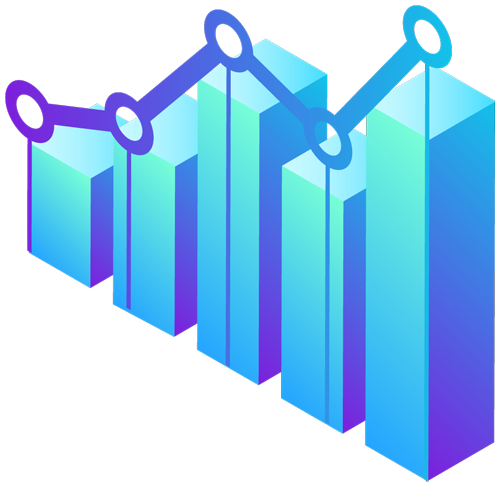
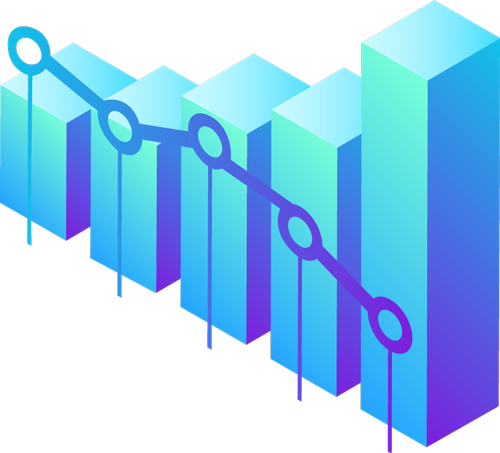
add in new demand picture

diff --git a/src/index.html b/src/index.html
@@ -107,35 +107,35 @@
         <div class="problem-dataset">
           <div class="problem-dataset-first">
             <div class="problem-dataset-element">
-              <h3>High Cost of Student Loans</h3>
-              <p>With Americans owing a crippling <span class="primary-bold">$1.5 trillion</span> in student loans as
-                of 2018, graduates are feeling more
+              <h3>High Cost of Education</h3>
+              <p>With Americans owing a crippling <span class="primary-bold">$1.5 trillion in student loans</span>,
+                graduates are feeling more
                 pressure than ever. On average, a new graduate owes $31,000. 42% of
-                people who’ve gone to college took out debt, while 20% of the borrowers are continuing to behind on
+                people who’ve gone to college took out debt, while 20% of the borrowers are continuing to be behind on
                 payments.</p>
             </div>
             <div class="problem-dataset-image">
-              <img class="lozad problem-dataset-icon" data-src="images/highdebtx500.png" alt="Individual in the middle that has influence and connections with multiple people">
+              <img class="lozad problem-dataset-icon" data-src="images/highdebtx500.png" alt="Stacks of coins and bills.">
             </div>
           </div>
           <div class="problem-dataset-second">
             <div class="problem-dataset-element">
-              <h3>Demand for More Equipped Educators</h3>
+              <h3>Expanding Gap of Qualified Teachers</h3>
               <p>Social proof buyer product management funding. Partnership virality traction ramen buyer
                 hypotheses launch party. Freemium social proof product management analytics funding
                 business model canvas pitch responsive web design deployment buzz</p>
             </div>
             <div class="problem-dataset-image">
-              <img class="lozad problem-dataset-icon" data-src="images/demandx500.png" alt="Individual in the middle that has influence and connections with multiple people">
+              <img class="lozad problem-dataset-icon" data-src="images/demandx500.png" alt="A bar and line chart of increasing left to right.">
             </div>
           </div>
           <div class="problem-dataset-third">
             <div class="problem-dataset-element">
-              <h3>Sink or Swim Culture for New Teachers</h3>
+              <h3>Sink or Swim Culture</h3>
               <p>New teachers are often thrown into a classroom without the proper training or resources. Culture
                 shock,
                 dissatisfaction, and/or an incompatible understanding with hiring administrations have led to <span
-                  class="primary-bold">46% of teachers</span> leaving the field within five years.</p>
+                  class="primary-bold">46% of teachers leaving the field</span> within five years.</p>
             </div>
             <div class="problem-dataset-image">
 
